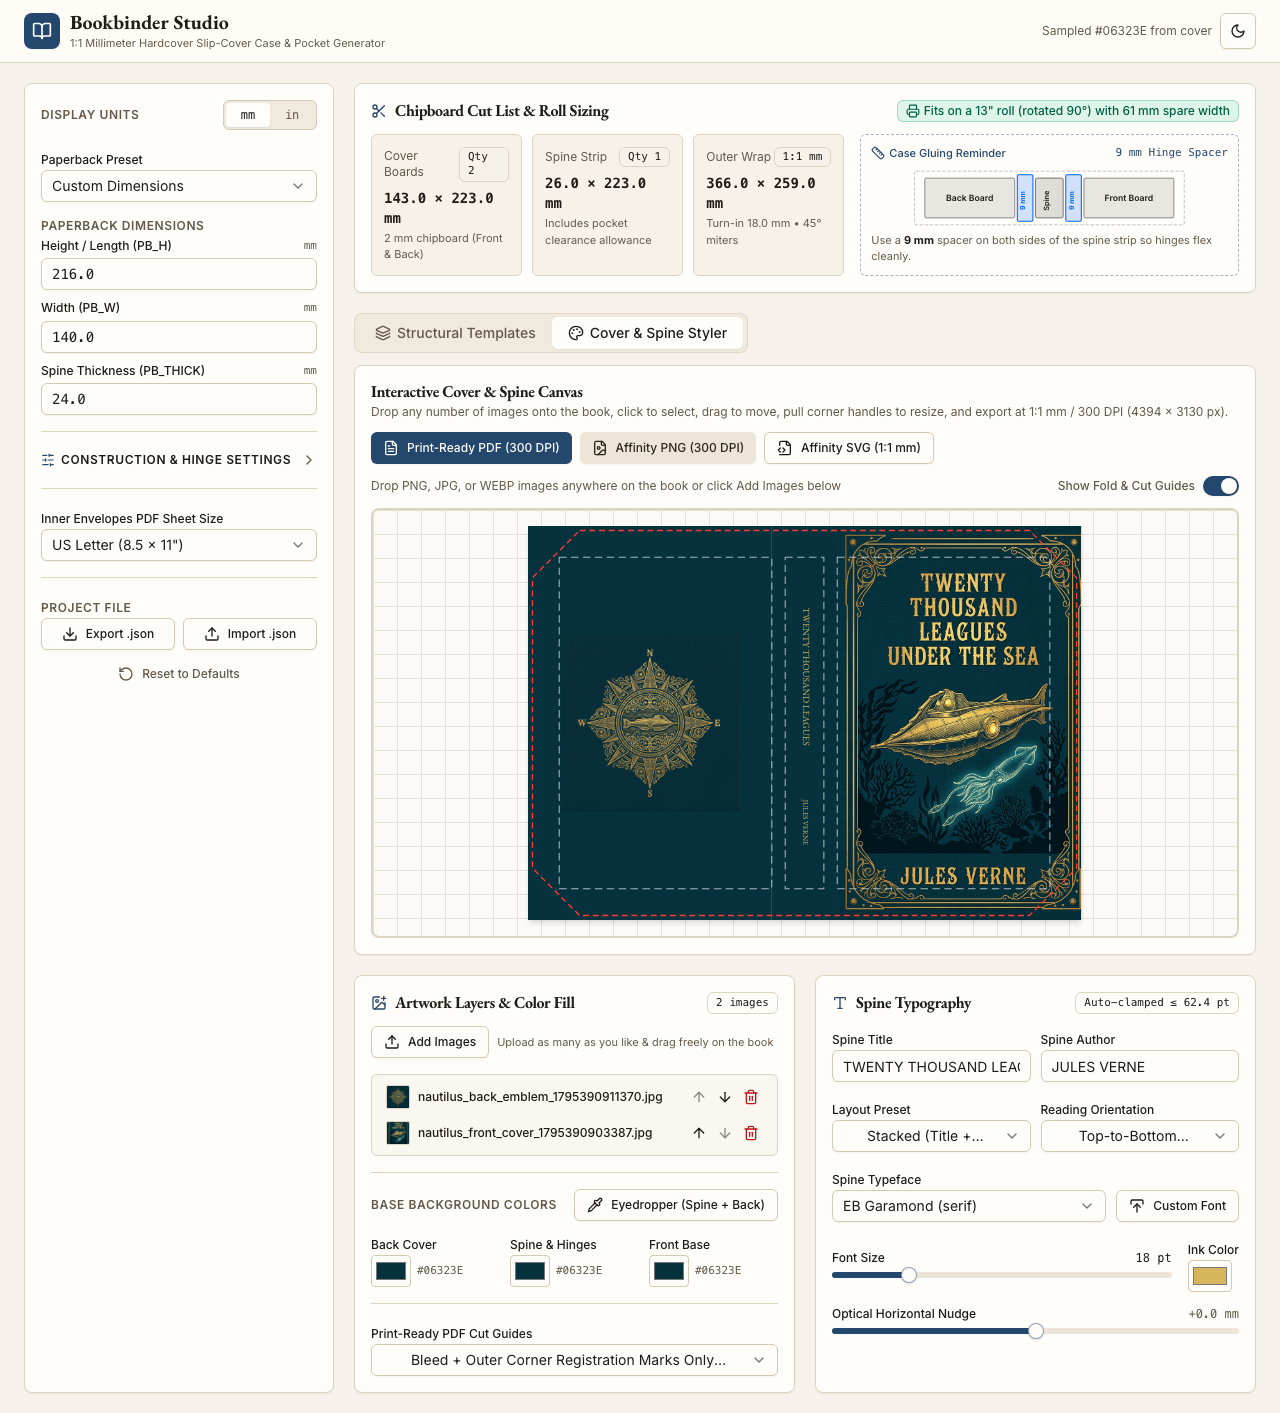
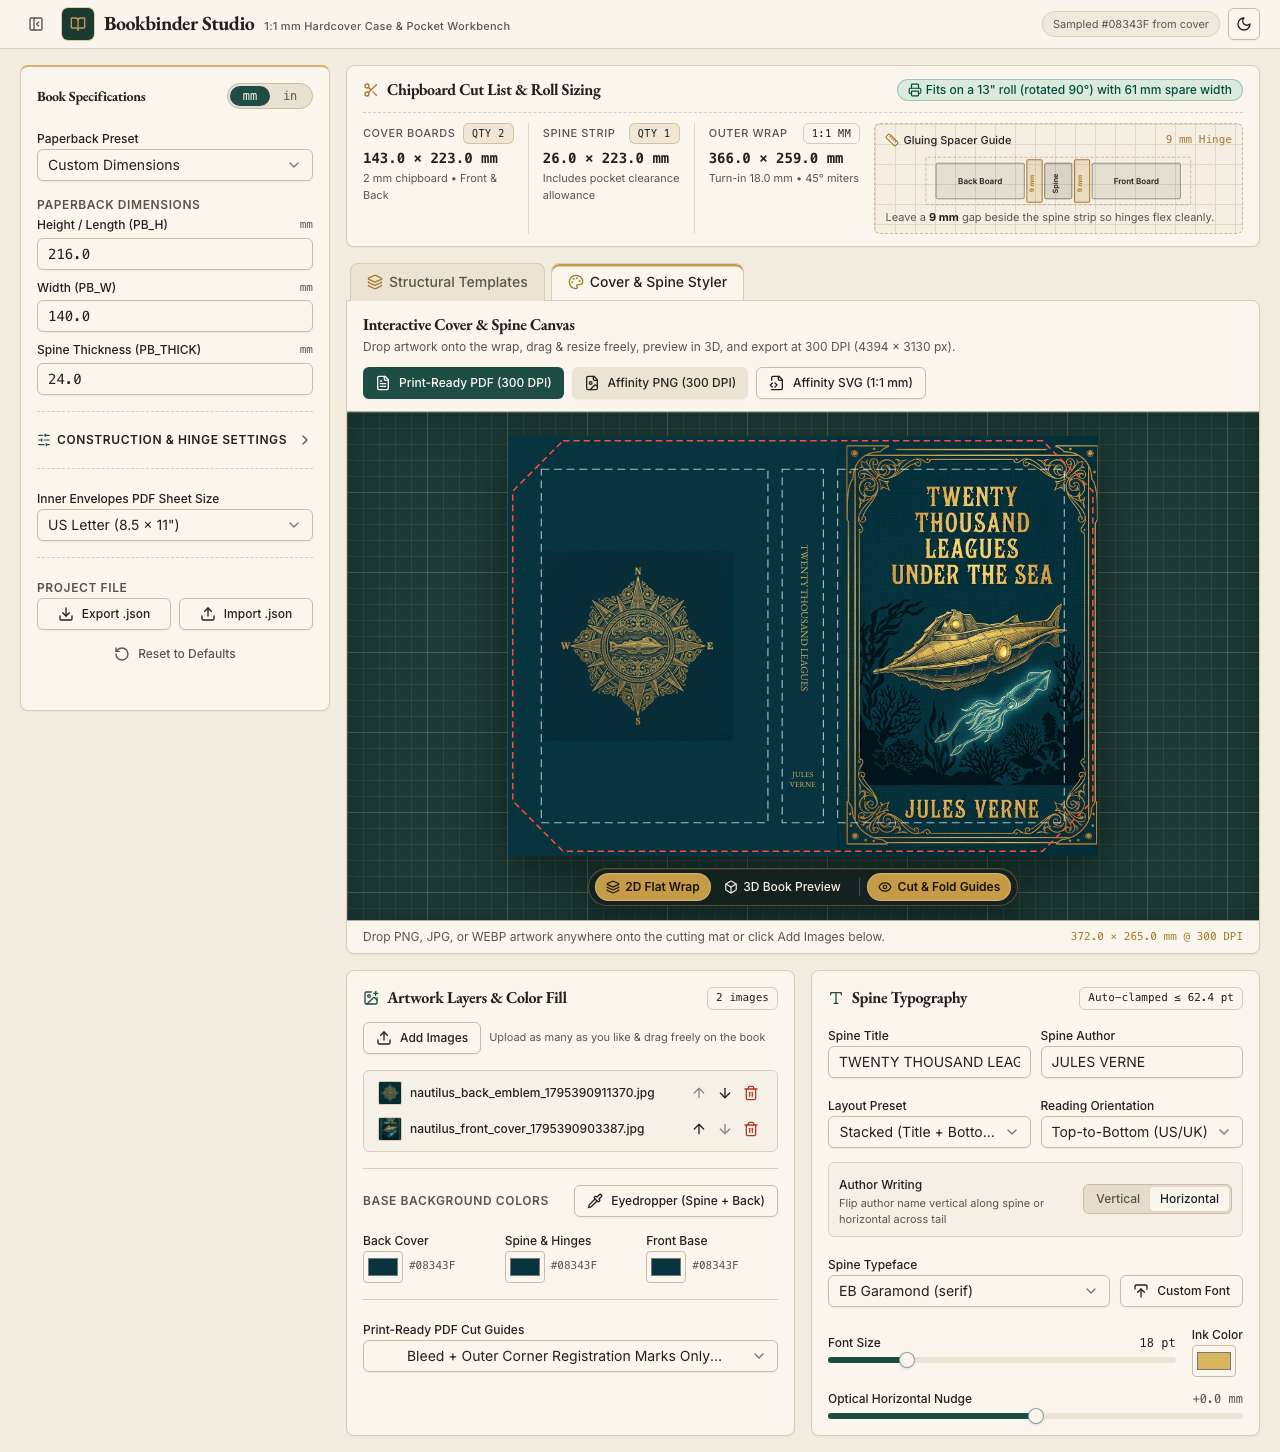
docs: refresh README screenshots and roadmap for Bindery Cutting Mat UI and 3D preview

diff --git a/docs/ROADMAP.md b/docs/ROADMAP.md
@@ -19,11 +19,12 @@ Related docs: [SPEC.md](./SPEC.md) · [DEPLOYMENT.md](./DEPLOYMENT.md) · [RESEA
 ### Milestone 2 — Interactive Cover & Spine Styler (Phase 2)
 - [x] **Free-Form Multi-Image Canvas (`src/studio/CoverStyler.tsx`, `src/types/studioLayer.ts`):** Upload/drop unlimited PNG/JPG/WEBP images, click to select, drag anywhere across the wrap, pull 4 corner resize handles proportionally, scroll to zoom, reorder layer stack, delete via keyboard or button, one-click `Fit Front` / `Fit Spine` / `Fit Back` / `Full Wrap`, and optional per-zone clip masks.
 - [x] **Colors & Eyedropper:** Independent Back, Spine & Hinges, and Front base color pickers plus click-to-sample eyedropper mapped via SVG `getScreenCTM`.
-- [x] **Spine Typography (`src/studio/fonts.ts`, `src/studio/SpineTypographyCard.tsx`):** Separate Title/Author inputs, Inline vs. Stacked presets, US/UK vs. European reading orientation, 6 bundled offline `@fontsource/*` fonts, custom `.ttf`/`.otf`/`.woff`/`.woff2` `FontFace` uploader, automatic font-size clamping (`≤ SPINE_W - 4.0 mm`), and `±2.0 mm` optical horizontal nudge.
+- [x] **Spine Typography (`src/studio/fonts.ts`, `src/studio/SpineTypographyCard.tsx`):** Separate Title/Author inputs, Inline vs. Stacked presets, US/UK vs. European reading orientation, Vertical vs. Horizontal author writing toggle, 6 bundled offline `@fontsource/*` fonts, custom `.ttf`/`.otf`/`.woff`/`.woff2` `FontFace` uploader, automatic font-size clamping (`≤ SPINE_W - 4.0 mm`), and `±2.0 mm` optical horizontal nudge.
+- [x] **Bindery Cutting Mat UI & Interactive 3D Book Preview (`src/studio/Book3DPreview.tsx`, `src/components/FloatingHudToolbar.tsx`):** Self-healing spruce cutting-mat workbench, warm cotton-rag paper sheets, kettle-stitch dividers, collapsible Book Spec rail, folder-style paper index tabs, accessible floating HUD pill toolbars, and a live rotatable CSS 3D folded hardcover book mockup rendered at exact `BOARD_W × BOARD_H × SPINE_W` proportions.
 - [x] **300 DPI Dual Exports (`src/studio/renderEngine.ts`):** Print-Ready Roll PDF (`outer_cover_print.pdf`) with embedded vector spine typography and cut-line vs. bleed-registration mark toggle; Affinity Round-Trip 300 DPI PNG (`outer_cover_300dpi.png`) and `1:1` mm SVG (`outer_cover_300dpi.svg`).
 
 ### Quality & Research
-- [x] **Automated Test Suite:** 65 Vitest unit/component tests (~84% coverage) + 7 Playwright Chromium behavioral E2E tests covering real downloads and interactive canvas manipulation.
+- [x] **Automated Test Suite:** 72 Vitest unit/component tests (~85% coverage) + 8 Playwright Chromium behavioral E2E tests covering real downloads, interactive canvas manipulation, collapsible rail, and 3D book orbiting.
 - [x] **Affinity Connector Research:** Documented feasibility and architectures in [RESEARCH.md](./RESEARCH.md).
 - [x] **Deployment Plan:** Documented GitHub Pages CI/CD plan in [DEPLOYMENT.md](./DEPLOYMENT.md).
 
@@ -51,4 +52,3 @@ Related docs: [SPEC.md](./SPEC.md) · [DEPLOYMENT.md](./DEPLOYMENT.md) · [RESEA
 - [ ] Snap-to-guide magnetism while dragging images near board/spine edges.
 - [ ] Custom user-saved paperback presets library in `localStorage`.
 - [ ] Printable assembly instruction sheet / folding guide.
-- [ ] Interactive 3D folded hardcover mockup preview.

diff --git a/README.md b/README.md
@@ -21,7 +21,11 @@ A client-side web application for DIY bookbinders to generate exact **1:1 millim
 
 - **Free-Form Multi-Image Canvas:** Upload or drag-and-drop as many PNG, JPG, or WEBP images as you like (front art, back art, spine emblems, full-wrap panoramas). Click to select, drag anywhere across the book, pull any of the 4 corner handles (or scroll) to resize proportionally, reorder z-index layers, snap with one-click **Quick Fit** (`Front`, `Spine`, `Back`, `Full Wrap`), and apply optional per-zone clip masks.
 - **Zone Background Colors & Eyedropper:** Pick solid base colors for Back, Spine & Hinges, and Front zones—or click anywhere on your uploaded artwork with the **Eyedropper** to sample an exact matching tone.
-- **Spine Typography:** Separate Title & Author fields, **Inline** vs. **Stacked** layouts, **Top-to-Bottom (US/UK)** vs. **Bottom-to-Top (European)** reading orientations, 6 bundled offline classic literary fonts (*EB Garamond, Libre Baskerville, Cormorant Garamond, Lora, Inter, Montserrat*), custom `.ttf`/`.otf`/`.woff`/`.woff2` uploader, automatic font-size clamping (`≤ SPINE_W - 4.0 mm` to clear the 9 mm hinges), and a `±2.0 mm` optical horizontal nudge.
+- **Spine Typography:** Separate Title & Author fields, **Inline** vs. **Stacked** layouts, **Top-to-Bottom (US/UK)** vs. **Bottom-to-Top (European)** reading orientations, **Vertical vs. Horizontal Author Writing** (auto-wrapped across the spine tail), 6 bundled offline classic literary fonts (*EB Garamond, Libre Baskerville, Cormorant Garamond, Lora, Inter, Montserrat*), custom `.ttf`/`.otf`/`.woff`/`.woff2` uploader, automatic font-size clamping (`≤ SPINE_W - 4.0 mm` to clear the 9 mm hinges), and a `±2.0 mm` optical horizontal nudge.
+- **Interactive 3D Folded Book Preview:** Toggle right in the cutting-mat HUD between the 2D flat wrap and a draggable CSS 3D hardcover volume rendered at exact `BOARD_W × BOARD_H × SPINE_W` proportions with recessed cream page edges, pressed hinge shadows, live spine typography, and quick camera presets (`Front 3/4`, `Spine`, `Back 3/4`, `Front`).
+
+![Bookbinder Studio — Interactive 3D Folded Book Preview](./docs/screenshots/book-3d-preview.png)
+
 - **300 DPI Dual Exports:**
   - **Print-Ready Roll PDF (`outer_cover_print.pdf`):** 300 DPI composited artwork + true embedded vector spine typography + toggle between *Bleed + Outer Corner Registration Marks Only* and *Full Cut & 45° Miter Hairline Guides*.
   - **Affinity Round-Trip (`outer_cover_300dpi.png` & `outer_cover_300dpi.svg`):** Exact 1:1 mm / 300 DPI flat cover + editable SVG layers for further graphic finishing in Affinity.
